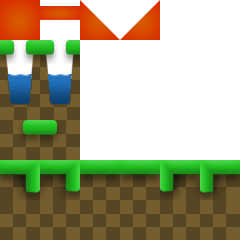
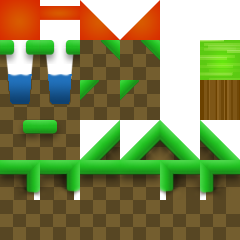
bug fixes

diff --git a/level.html b/level.html
@@ -1,7 +1,8 @@
 <html lang = "en">
     <head>
         <title>Level Selection Screen</title>
-        <meta name="viewport" id="viewport" content="width=device-width,height=device-height,initial-scale=1.0,user-scalable=no" />
+        <meta name="viewport" id="viewport" content="width=device-width,height=device-height,
+            initial-scale=1.0,user-scalable=no" />
         <link rel="stylesheet" href="css/level.css" type="text/css">
         <script src="lib/jquery-1.9.1.min.js"></script>
     </head>
@@ -17,7 +18,7 @@
                     
                     <button id="button_4" class = "map_buttons" onclick="setDifficulty(4)">NVT</button>
                     <button id="button_5" class = "map_buttons" onclick="setDifficulty(5)">ALB</button>
-                    <button id="button_6" class = "map_buttons" onclick="setDifficulty(6)">SAS</button>
+                    <button id="button_6" class = "map_buttons" onclick="setDifficulty(6)">SASK</button>
                     <button id="button_7" class = "map_buttons" onclick="setDifficulty(7)">NB</button>
                     <button id="button_8" class = "map_buttons" onclick="setDifficulty(8)">PEI</button>
                     <button id="button_9" class = "map_buttons" onclick="setDifficulty(9)">NS</button>

diff --git a/js/main.js b/js/main.js
@@ -1,8 +1,8 @@
 // game resources
 var g_resources= [
     {name:"land-tiles",type:"image",src:"img/land-tiles.png"},
-    {name:"land-tiles-simple",type:"image",src:"img/land-tiles-simple.png"},
-    {name:"level1",type:"tmx",src:"data/level1.tmx"},
+    {name:"land-tiles-simple",type:"image",src:"data/land-tiles-simple.png"},
+    {name:"level1",type:"tmx",src:"img/level1.tmx"},
     {name:"chimpy",type:"image",src:"img/chimpy.png"},
     {name:"acorn",type:"image",src:"img/acorn.png"}
 ];
@@ -67,7 +67,6 @@ var PlayScreen = me.ScreenObject.extend({
 //bootstrap :)
 window.onReady(function(){
 	jsApp.onload();
-    popup(false);
     
     // document.getElementById("jsapp").addEventListener('touchstart', function(e) {doTouch(e);}, false);
     document.getElementById("jsapp").addEventListener('touchmove', function(e) {doTouch(e);}, false);

diff --git a/js/game.js b/js/game.js
@@ -1,7 +1,7 @@
 var firstNum = 0, secondNum = 0, answer=0, userAnswer = "";
 var ADD = 0, SUBTRACT = 1, MULTIPLY = 2, DIVIDE = 3;
 var operation = ADD;
-sessionStorage.difficulty=3;
+sessionStorage.difficulty=1;
 //temp
 generateNewQuestion();
 /**
@@ -106,7 +106,7 @@ function popup(show){
         $("#math-popup").animate({
             width:"toggle"
         });
-        generateNewQuestion();
+        generateNewQuestion();        
     }else{
         $("#math-popup").animate({
           width:"toggle"

diff --git a/css/main.css b/css/main.css
@@ -16,6 +16,7 @@ body {
     box-shadow: inset 0 0px 10px 5px #383838;
     left:0;
     height:599px;
+    display:none;
     width:50%;
 }
 #math-table{
@@ -34,8 +35,8 @@ body {
     position:absolute;
     width:512px;
     left:50%;
-    background:black;
-    opacity:0.7;
+    background:black;    
+    display:none;
 }
 .math-button,#question{
     height:100%;

diff --git a/js/entities.js b/js/entities.js
@@ -11,6 +11,9 @@ var PlayerEntity = me.ObjectEntity.extend({
     },
     
     update:function(){ 
+        if($("#math-info").is(":visible")){
+           return false;
+        }
         
         if (me.input.isKeyPressed('left')) {
             // flip the sprite on horizontal axis
